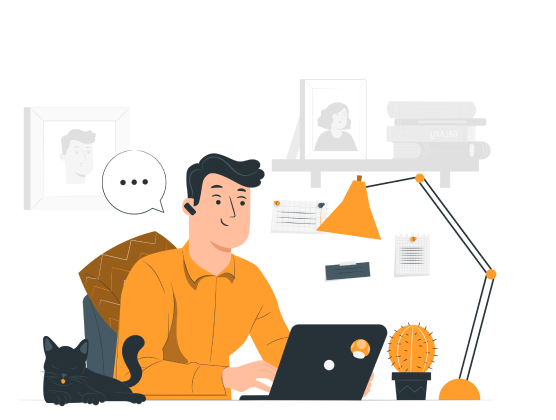
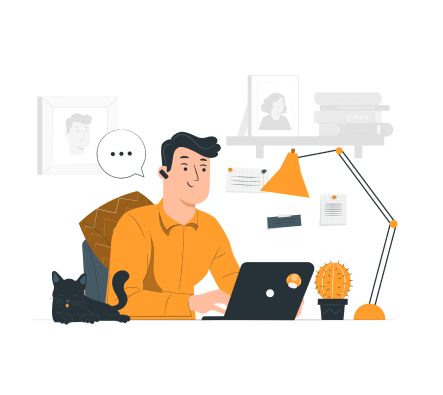
changes in main

diff --git a/src/components/Mainfeed/Mainfeed.css b/src/components/Mainfeed/Mainfeed.css
@@ -4,25 +4,28 @@ body {
 
  .Mainfeed {
     background-color:#BEE2EB;
-     margin: 10%;
+     margin: 3%;
     display:flex;
-    padding: 100px;
+    padding: 5px;
     justify-content: space-between;
-    border-radius: 5%;
+    border-radius: 4%;
     border-color:#329EB2;
     border-style: solid;
+    flex-wrap: wrap;
  } 
  .Messagebox{
      display: flex;
      flex-direction: column;
      align-content: space-between;
+     flex-wrap: wrap;
     
  }
  .Message1 {
+     display: flex;
     background-color:#ffffff;
-    padding: 50px;
-    max-height: 70vh;
-    max-width: 80vw;
+    padding: 30px;
+    max-height: 45vh;
+    max-width: 40vw;
     border-radius: 10%;
     border-color: black;
     border-style: solid;
@@ -30,16 +33,21 @@ body {
     margin-bottom: 5px;
     flex: 1 0 auto;
     height: auto;
+    flex-wrap: wrap;
  }
 .Message1:before{
    content: '';
    display: block;
    padding-top: 80%;
 }
- .happyguy{
+ .Mainleft{
      display: flex;
      flex-direction: column;
+     margin:10px;
+     justify-content:space-between;
+     flex-wrap: wrap;
+    
  }
- .something{
-     margin: 100px;
+ .Banner{
+     margin: 10px;
  }

diff --git a/src/components/Mainfeed/Mainfeed.jsx b/src/components/Mainfeed/Mainfeed.jsx
@@ -1,6 +1,6 @@
 import "./Mainfeed.css";
 import Happyguy from "./mainpagepictures/happyguy.png";
-import Sadguy from "./mainpagepictures/Sadguy.png"
+import Sayhi from "./mainpagepictures/sayhi.png";
 
 const Message = ({author, content, city, date}) =>{
     return (
@@ -17,10 +17,12 @@ const Message = ({author, content, city, date}) =>{
 export default function Mainfeed({post}) {
     return (
         <div className="Mainfeed">
-            <div className="happyguy">
 
-            <div className ="something"></div>
+            <div className="Mainleft">
+
+            <div className ="Banner"> <img src={Sayhi} alt="banner"/></div>
             <div className="happyguypicture"> <img src={Happyguy} alt="HAPPYGUY"/></div>
+            
             </div>
         
             {/* <div className="Messagebox"> */}

diff --git a/src/pages/home/Home.jsx b/src/pages/home/Home.jsx
@@ -1,5 +1,6 @@
 import Mainfeed from "../../components/Mainfeed/Mainfeed";
 import Navbar from "../../components/Navbar/Navbar";
+import Filler from "../../components/Mainfeed/Mainfiller";
 import { useEffect, useState } from "react";
 import axios from "axios";
 

diff --git a/src/components/Mainfeed/Mainfiller.jsx b/src/components/Mainfeed/Mainfiller.jsx
@@ -1,0 +1,6 @@
+import filler from "./mainpagepictures/sayhi.png";
+
+export default function Filler (){
+    return(
+<div className="mainpagefiller"> <img src={filler} alt="filler"/></div>
+)}
